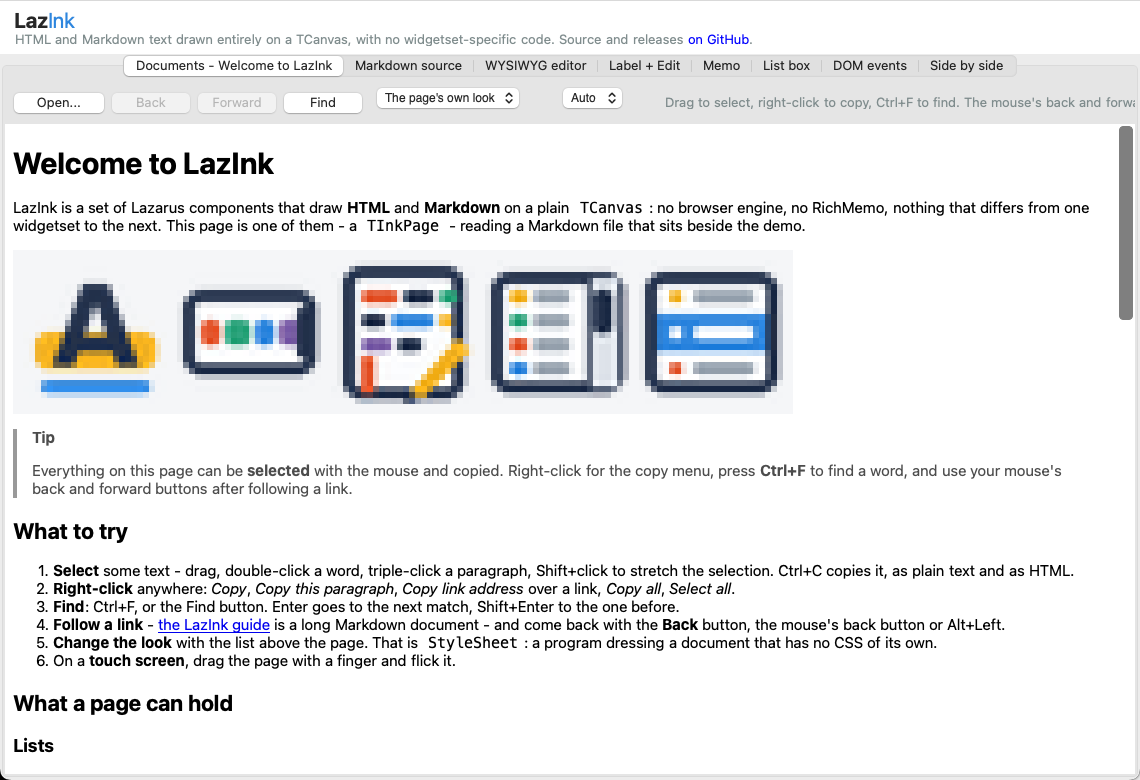
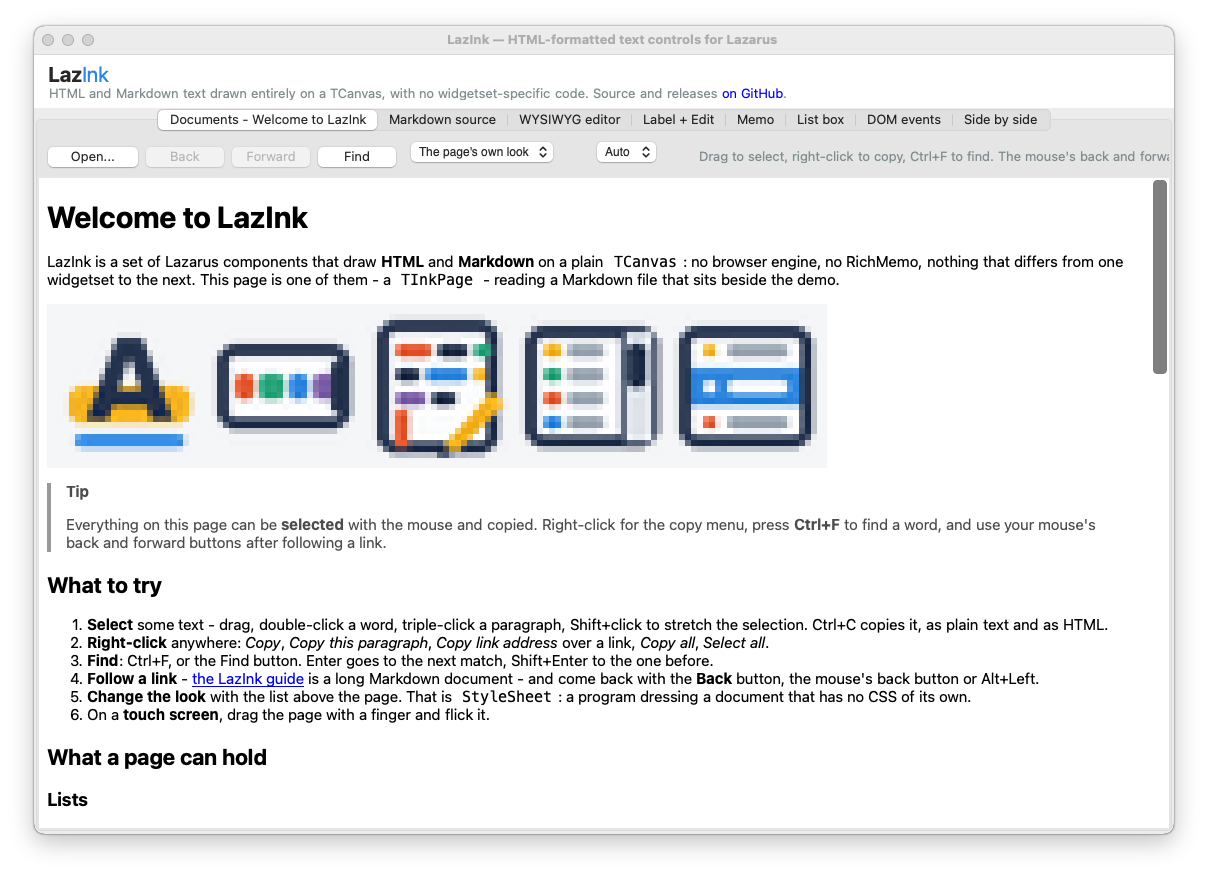
The Mac screenshots show the window, title bar and all
On a Mac the demo's --screenshots now captures its window as macOS draws
it, through Core Graphics, where it used to copy the client area.  The
eight pictures in images/macos are retaken that way, and the README shows
the editor from them.

Changed region(s): [[0.0, 0.0, 1.0, 1.0]]

diff --git a/README.md b/README.md
@@ -80,7 +80,7 @@ widgetset - an Intel virtual machine, Lazarus 4.8 and FPC 3.2.4 - and the
 whole test suite passes there: document tree, styles, layout, renderer and
 interaction, Markdown, WebP. Apple Silicon has not been tried.
 
-![The WYSIWYG editor on macOS](images/macos/window.png)
+![The WYSIWYG editor on macOS](images/macos/demo-editor.png)
 
 [Every tab of the demo on macOS](images/macos/README.md).
 

diff --git a/images/macos/README.md b/images/macos/README.md
@@ -1,7 +1,8 @@
 # The demo on macOS
 
 Every tab of the demo, from the Cocoa build on macOS Sequoia 15 (Intel)
-with Lazarus 4.8 and FPC 3.2.4. To take them again:
+with Lazarus 4.8 and FPC 3.2.4 - the window as macOS draws it, title bar
+and shadow included. To take them again:
 
 ```sh
 lazbuild --ws=cocoa demo/lazinkdemo.lpi
